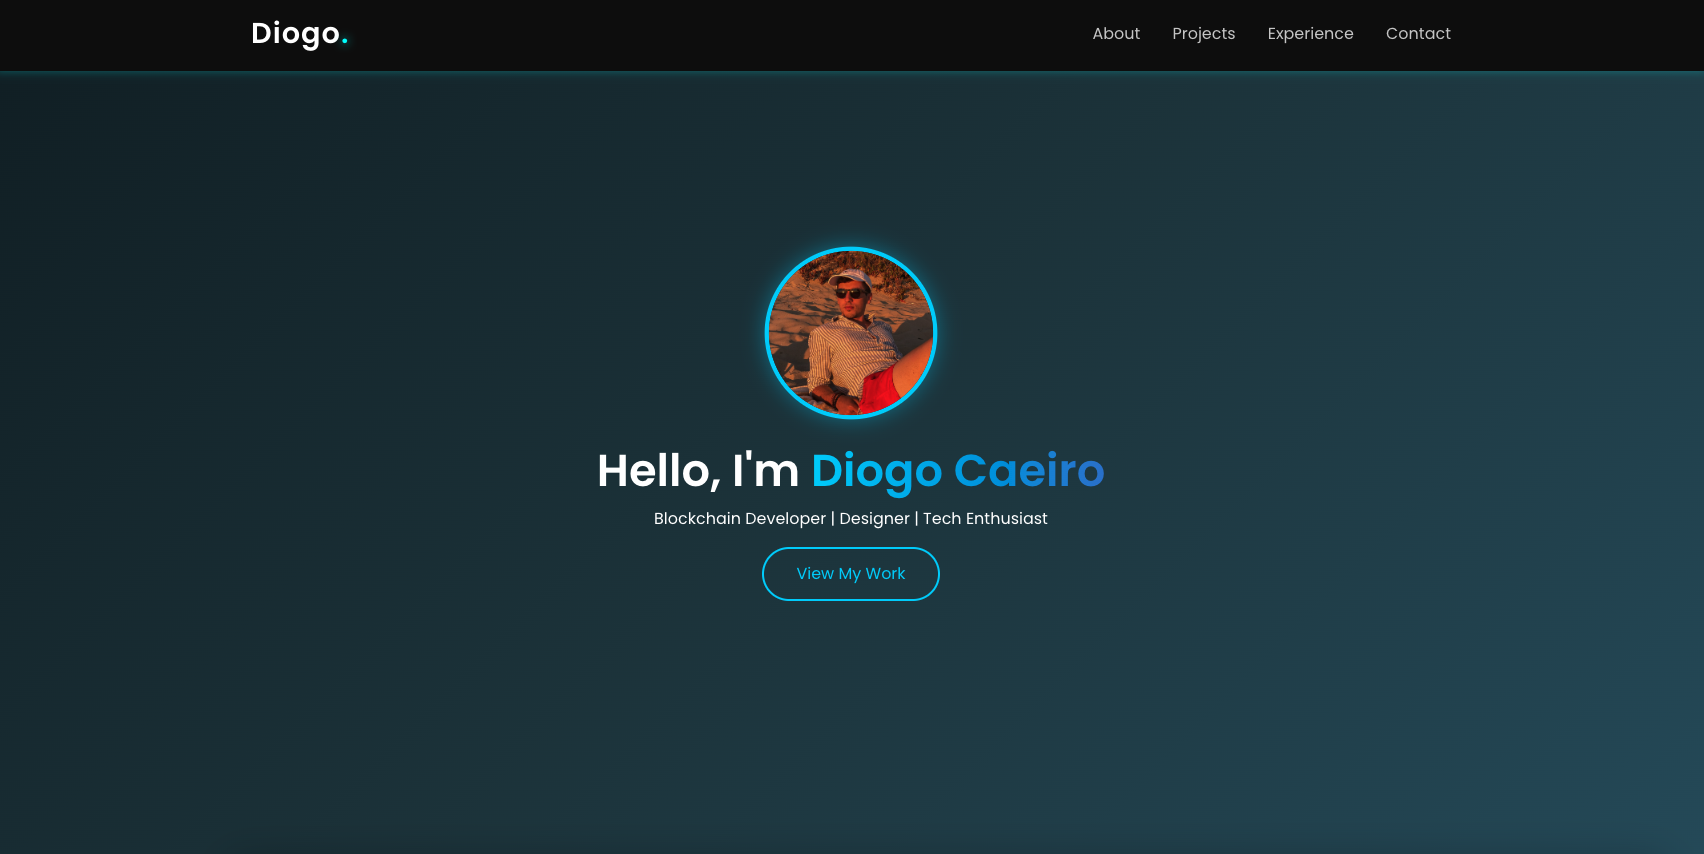
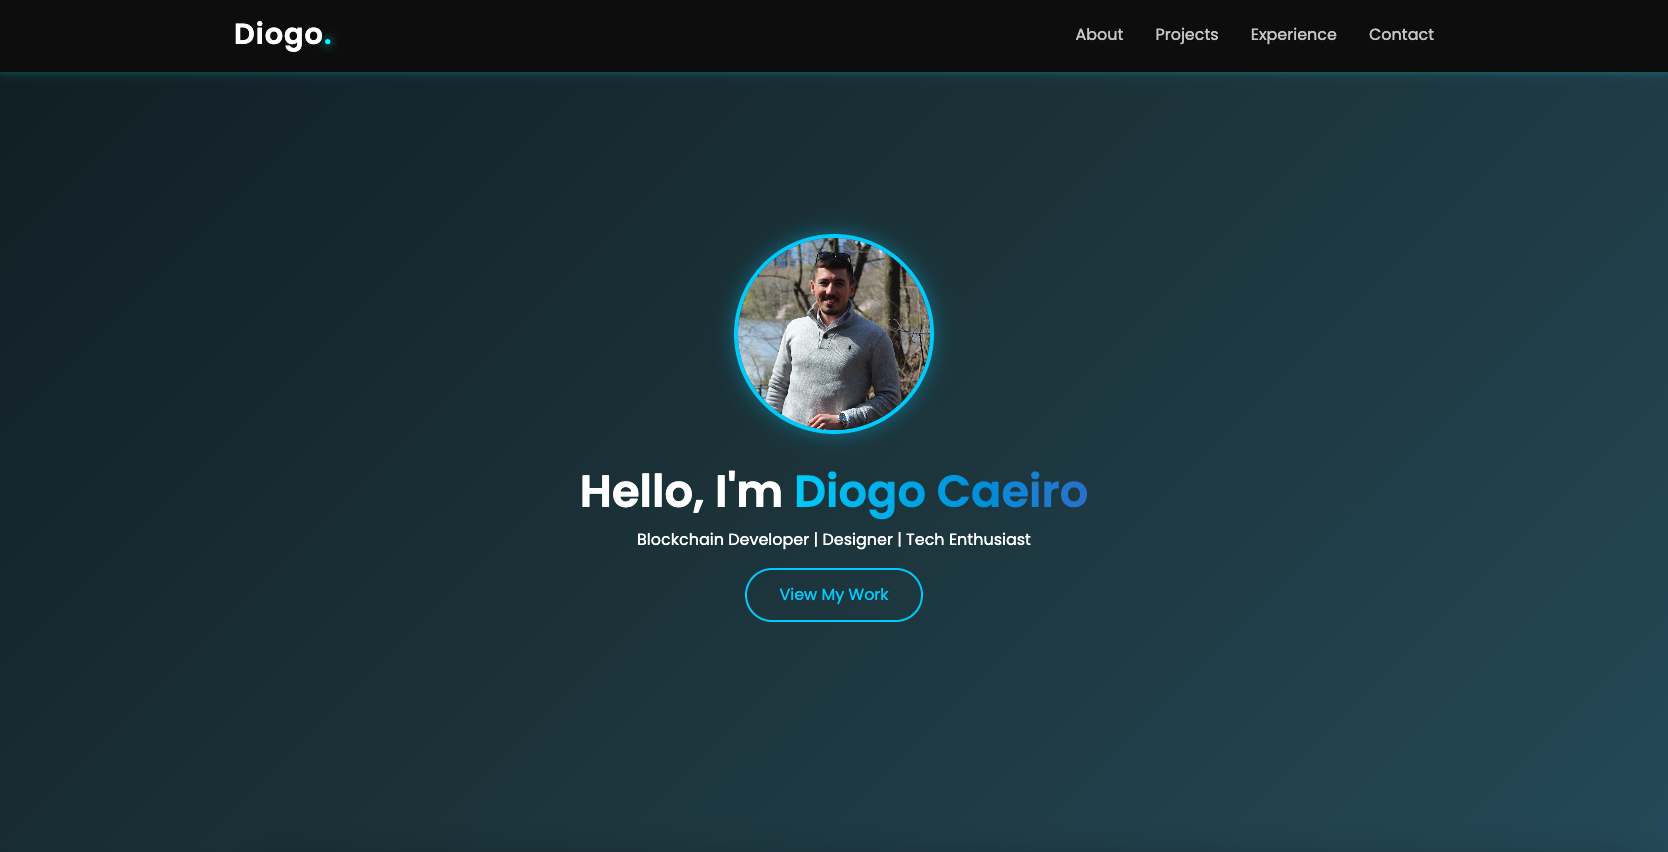
New Preview Img

Changed region(s): [[0.3429, 0.2746, 0.6547, 0.7324], [0.6235, 0.0305, 0.8729, 0.061], [0.1247, 0.0305, 0.2182, 0.061]]

diff --git a/README.md b/README.md
@@ -10,7 +10,7 @@ Welcome to my personal developer portfolio built with React. This project showca
 
 ## 📸 Preview
 
-![Portfolio Preview](public/assets/preview.png)
+![Portfolio Preview](public/assets/preview2.png)
 
 ---
 
